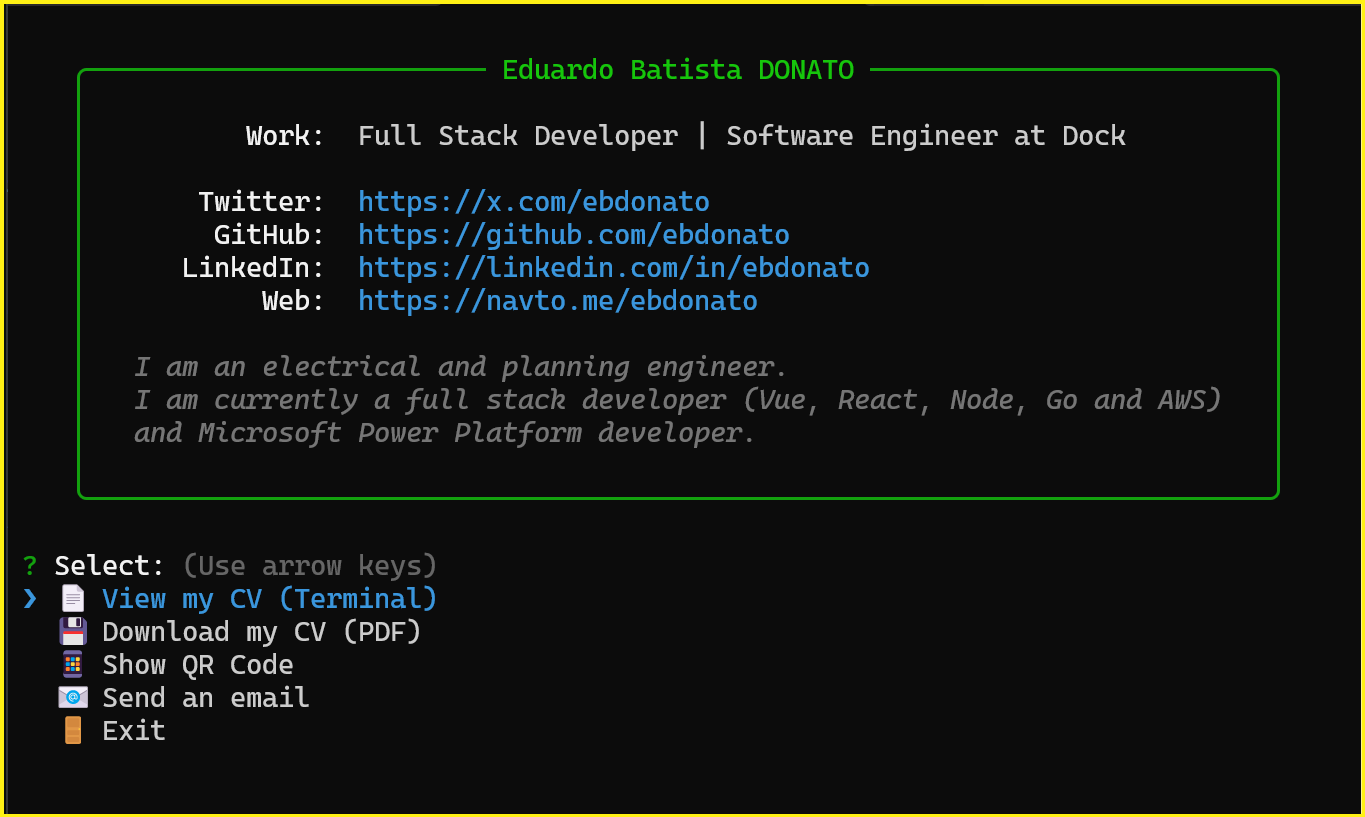
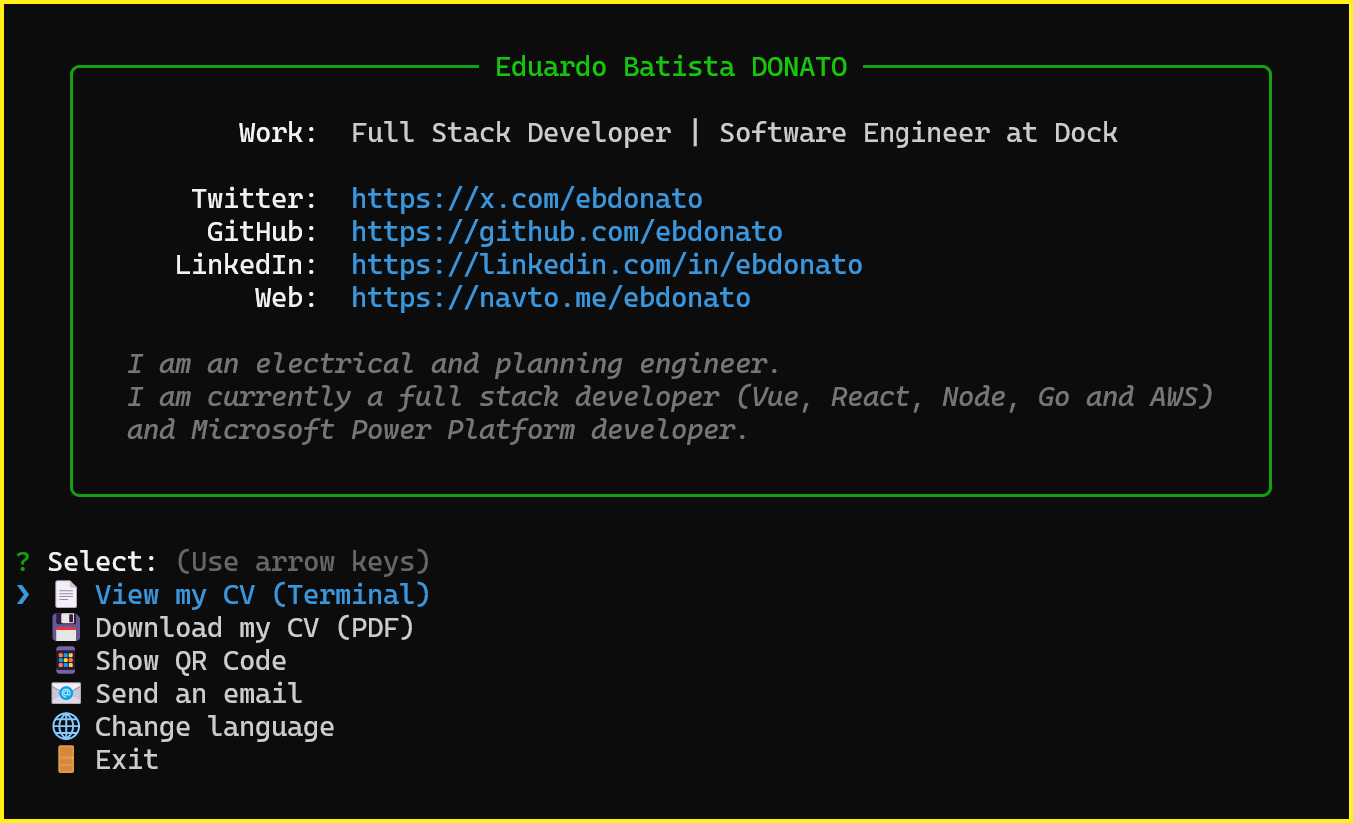
chore: update preview image

diff --git a/lib/i18n.js b/lib/i18n.js
@@ -115,13 +115,13 @@ function setLocale(locale) {
 
 /**
  * Gets locale display names for the language selector
- * @returns {Object[]} Array of {code, name} objects
+ * @returns {Object[]} Array of {code, name, flag} objects
  */
 function getLocaleOptions() {
     return [
-        { code: 'en', name: 'English' },
-        { code: 'pt', name: 'Portugues' },
-        { code: 'es', name: 'Espanol' },
+        { code: 'en', name: 'English', flag: '[EN]' },
+        { code: 'pt', name: 'Portugues', flag: '[PT]' },
+        { code: 'es', name: 'Espanol', flag: '[ES]' },
     ]
 }
 

diff --git a/bin/index.js b/bin/index.js
@@ -160,7 +160,10 @@ async function changeLanguage() {
     const currentLocale = getLocale()
 
     const choices = localeOptions.map((opt) => ({
-        name: opt.code === currentLocale ? `${opt.name} (current)` : opt.name,
+        name:
+            opt.code === currentLocale
+                ? `${opt.flag} ${opt.name} (current)`
+                : `${opt.flag} ${opt.name}`,
         value: opt.code,
     }))
 
